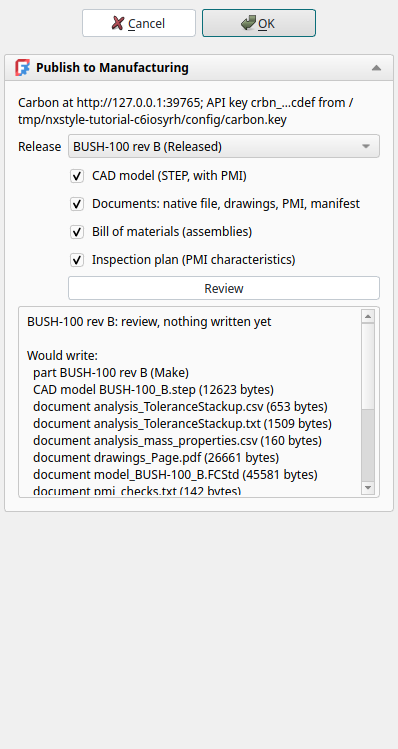
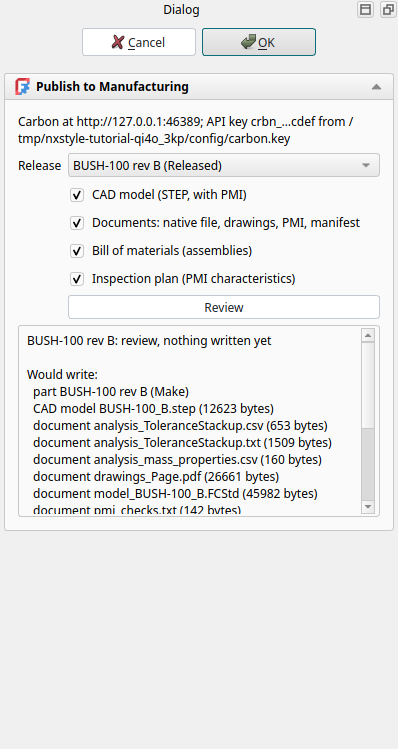
docs(tutorial): AO's step table and pictures from its own replay

diff --git a/docs/TUTORIAL-REPLAY.md b/docs/TUTORIAL-REPLAY.md
@@ -590,9 +590,9 @@ Dimension values are applied through FreeCAD's API, the equivalent of typing the
 | AN14 | Save the part | file name given once by script (the system file dialog is not driven); a change, then the Ctrl+S key | **same** | Arborpress_plate.FCStd rewritten by Ctrl+S: the file holds the change and the part is unmodified afterwards (modified before the key: True); FreeCAD format, not .prt |
 | AO1 | The guide bush, released in tutorial V as BUSH-100 rev B (rev A obsolete); a Carbon to send it to | the replay's Carbon: the stand-in server of the unit tests, on this computer | **differs** | releases [('BUSH-100', 'A', 'Obsolete'), ('BUSH-100', 'B', 'Released')]; server http://127.0.0.1:<port>. A user connects to Carbon Cloud (app.carbon.ms) or their own Carbon instead |
 | AO2 | Manufacturing Connection: server and API key, Test Connection, Save | ribbon 'PLM › Manufacturing > Manufacturing Connection', server and key typed, 'Test Connection', 'Save' | **same** | 'Connected to http://127.0.0.1:<port>: Test Precision BV.'; the server goes into nxstyle.json, the key into carbon.key (mode 0o600), never into nxstyle.json |
-| AO3 | Publish to Manufacturing: the newest Released revision, Review | ribbon 'PLM › Manufacturing > Publish to Manufacturing', release 'BUSH-100 rev B (Released)', 'Review' | **same** | nothing written yet (0 writes); the review lists part BUSH-100 rev B (Make); CAD model BUSH-100_B.step (12623 bytes); document analysis_ToleranceStackup.csv (653 bytes); document analysis_ToleranceStackup.txt (1509 bytes); document analysis_mass_properties.csv (160 bytes); document drawings_Page.pdf (26661 bytes); document model_BUSH-100_B.FCStd (45581 bytes); document pmi_checks.txt (142 bytes); document pmi_inspection_plan.csv (927 bytes); document pmi_pmi.json (3374 bytes); document BUSH-100_B_manifest_54a69680814d.json (3419 bytes); inspection plan 'BUSH-100 rev B inspection plan (NX-Style PMI)'; inspection plan: 6 characteristics added, |
-| AO4 | OK: Carbon gets the release | MB2 = OK | **same** | 13 writes: part BUSH-100 rev B (Make); CAD model BUSH-100_B.step (12623 bytes); document analysis_ToleranceStackup.csv (653 bytes); document analysis_ToleranceStackup.txt (1509 bytes); document analysis_mass_properties.csv (160 bytes); document drawings_Page.pdf (26661 bytes); document model_BUSH-100_B.FCStd (45581 bytes); document pmi_checks.txt (142 bytes); document pmi_inspection_plan.csv (927 bytes); document pmi_pmi.json (3374 bytes); document BUSH-100_B_manifest_54a69680814d.json (3419 bytes); inspection plan 'BUSH-100 rev B inspection plan (NX-Style PMI)'; inspection plan: 6 characteristics added, 0 changed |
-| AO5 | In Carbon: the part at rev B, its CAD model, documents and inspection plan | what the replay's Carbon holds | **same** | item BUSH-100 rev B (active); CAD model BUSH-100_B.step; documents ['BUSH-100_B_manifest_54a69680814d.json', 'analysis_ToleranceStackup.csv', 'analysis_ToleranceStackup.txt', 'analysis_mass_properties.csv', 'drawings_Page.pdf', 'model_BUSH-100_B.FCStd', 'pmi_checks.txt', 'pmi_inspection_plan.csv', 'pmi_pmi.json']; 6 characteristics for 6 plan rows; the bore Ø16 F7 as nominal 16 +0.034 -(-0.016) mm, i.e. 16.016 to 16.034; requests outside Carbon's published schemas: 0 |
+| AO3 | Publish to Manufacturing: the newest Released revision, Review | ribbon 'PLM › Manufacturing > Publish to Manufacturing', release 'BUSH-100 rev B (Released)', 'Review' | **same** | nothing written yet (0 writes); the review lists part BUSH-100 rev B (Make); CAD model BUSH-100_B.step (12623 bytes); document analysis_ToleranceStackup.csv (653 bytes); document analysis_ToleranceStackup.txt (1509 bytes); document analysis_mass_properties.csv (160 bytes); document drawings_Page.pdf (26661 bytes); document model_BUSH-100_B.FCStd (45982 bytes); document pmi_checks.txt (142 bytes); document pmi_inspection_plan.csv (927 bytes); document pmi_pmi.json (3374 bytes); document BUSH-100_B_manifest_2cea0517a420.json (3419 bytes); inspection plan 'BUSH-100 rev B inspection plan (NX-Style PMI)'; inspection plan: 6 characteristics added, |
+| AO4 | OK: Carbon gets the release | MB2 = OK | **same** | 13 writes: part BUSH-100 rev B (Make); CAD model BUSH-100_B.step (12623 bytes); document analysis_ToleranceStackup.csv (653 bytes); document analysis_ToleranceStackup.txt (1509 bytes); document analysis_mass_properties.csv (160 bytes); document drawings_Page.pdf (26661 bytes); document model_BUSH-100_B.FCStd (45982 bytes); document pmi_checks.txt (142 bytes); document pmi_inspection_plan.csv (927 bytes); document pmi_pmi.json (3374 bytes); document BUSH-100_B_manifest_2cea0517a420.json (3419 bytes); inspection plan 'BUSH-100 rev B inspection plan (NX-Style PMI)'; inspection plan: 6 characteristics added, 0 changed |
+| AO5 | In Carbon: the part at rev B, its CAD model, documents and inspection plan | what the replay's Carbon holds | **same** | item BUSH-100 rev B (active); CAD model BUSH-100_B.step; documents ['BUSH-100_B_manifest_2cea0517a420.json', 'analysis_ToleranceStackup.csv', 'analysis_ToleranceStackup.txt', 'analysis_mass_properties.csv', 'drawings_Page.pdf', 'model_BUSH-100_B.FCStd', 'pmi_checks.txt', 'pmi_inspection_plan.csv', 'pmi_pmi.json']; 6 characteristics for 6 plan rows; the bore Ø16 F7 as nominal 16 +0.034 -(-0.016) mm, i.e. 16.016 to 16.034; requests outside Carbon's published schemas: 0 |
 | AO6 | Publish the same release again | ribbon 'PLM › Manufacturing > Publish to Manufacturing', MB2 = OK | **same** | 0 writes []: Carbon already has the part, its model, its 9 documents and its characteristics, so nothing is sent twice |
 | AO7 | The shop builds it: 25 on a job, 23 good, 2 rejected for an undersize bore (a non-conformance) | written into the replay's Carbon by script, as the shop floor and quality would in Carbon | **differs** | in a real Carbon this comes from jobs, receipts and inspections on the MES and QMS side |
 | AO8 | Manufacturing Status: revision, stock and the open non-conformance | ribbon 'PLM › Manufacturing > Manufacturing Status' | **same** | BUSH-100 rev B: Guide bush / active, Design; Make, Make to Order, tracked as Inventory / revisions in Carbon: B / stock at Main Shop: 23 EA on hand, 0 on hold, 2 rejected; 25 on production orders, 0 on purchase orders / inspection plans: BUSH-100 (6 characteristics) / open issues: 1 / NCR-0001 Bore below 16.016 (F7) (In Progress) |
